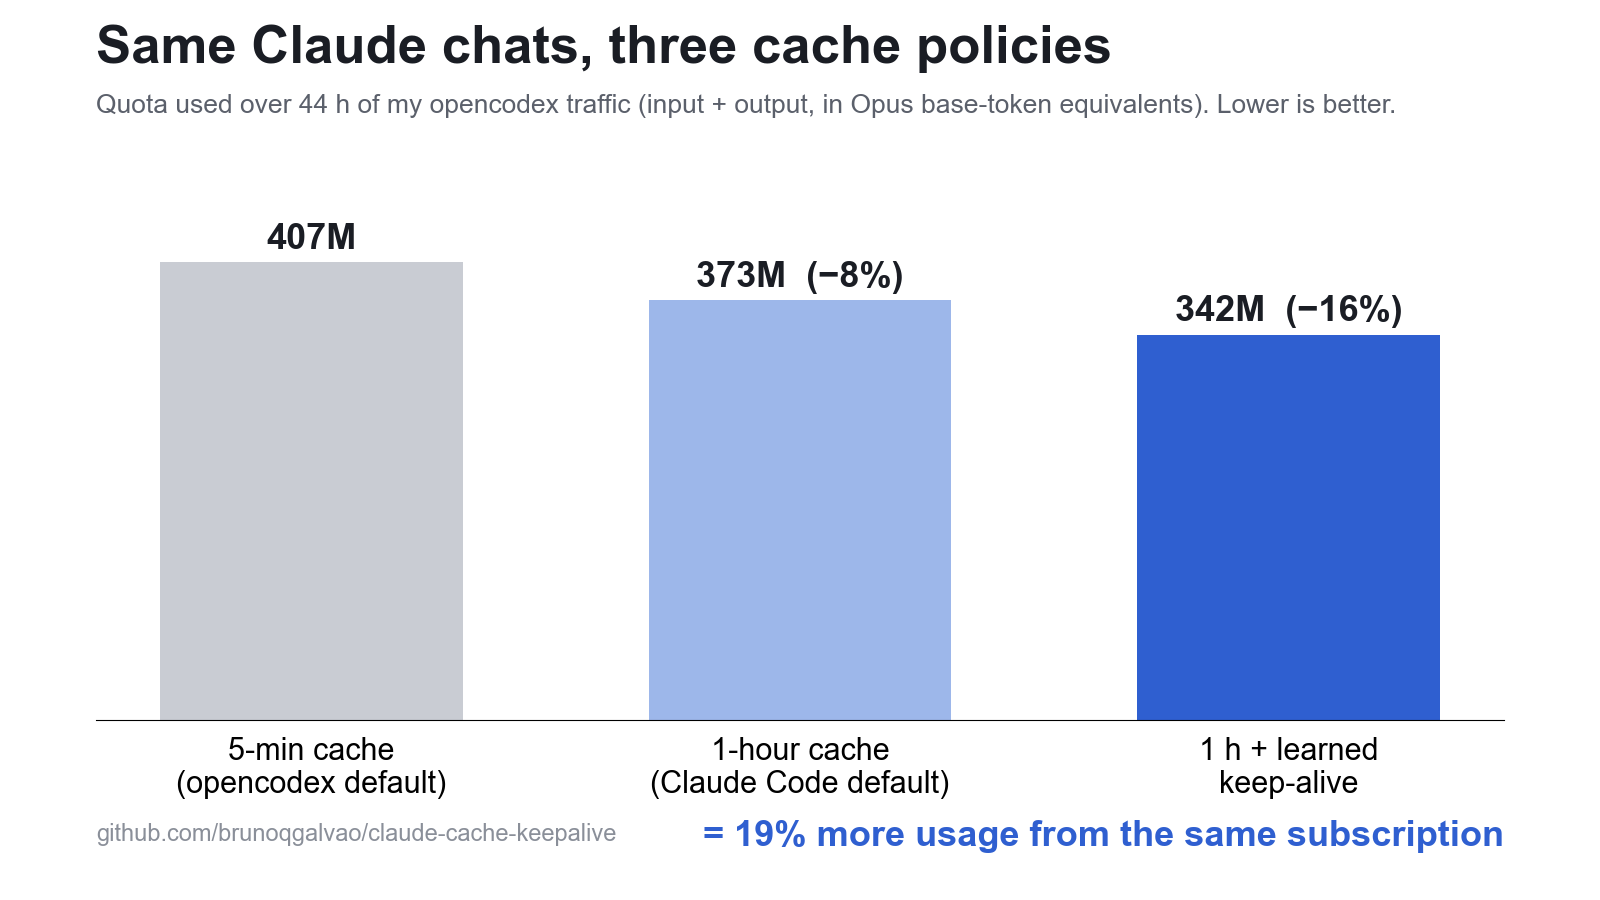
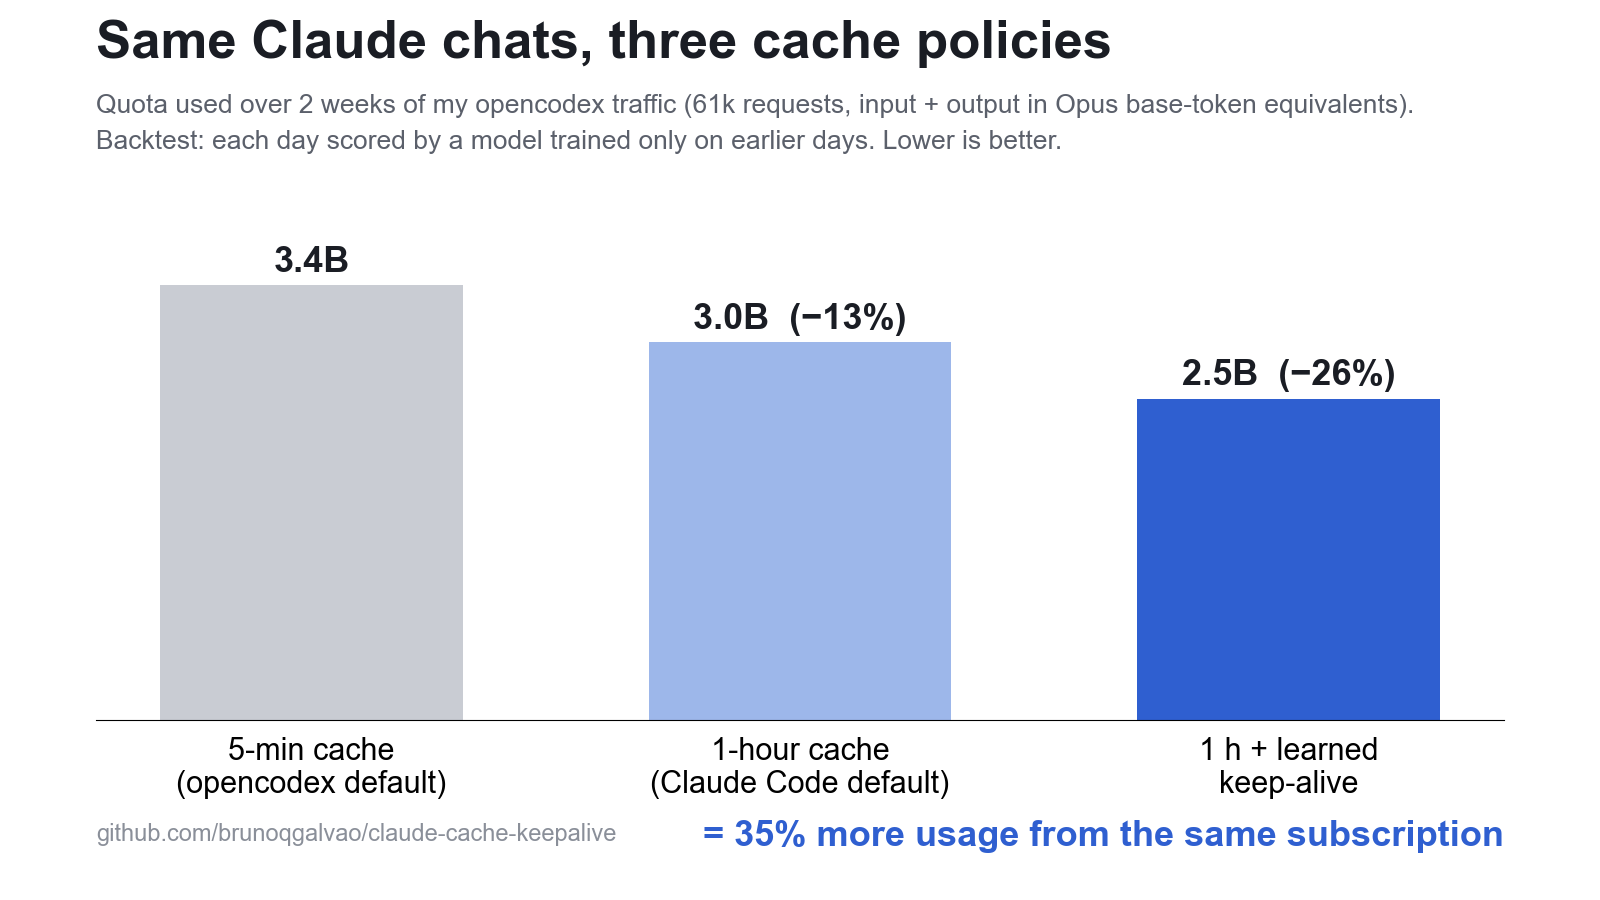
Walk-forward backtest with calibrated replay; README leads with 2-week backtest

diff --git a/analysis/backtest_walkforward.py b/analysis/backtest_walkforward.py
@@ -1,0 +1,130 @@
+#!/usr/bin/env python3
+"""Walk-forward backtest: the three cache policies on the same requests, out of sample.
+
+For each test day, the return-probability model is fitted only on the days before it (like the
+daily retrain), then scored on the pauses that start that day. The 5-minute and 1-hour rules are
+replayed over the same requests. Quota = input-side cost in base-token equivalents (5-min write
+1.25x, 1-hour write 2x, read 0.05x on Opus 5.5) plus output at 5x.
+
+  python3 analysis/backtest_walkforward.py --days 14 --test-days 7
+"""
+import argparse, pathlib, sys
+sys.path.insert(0, str(pathlib.Path(__file__).resolve().parent.parent / 'tools'))
+import tune as T
+
+W5 = 1.25
+
+def cached_read(r, prev, ttl, floor):
+    """Tokens a request reads from cache under a given lifetime, modelled the same way for both
+    lifetimes: within the lifetime it reads the previous request's prompt (the part it shares);
+    after it, only the shared system prompt and tools. Uses the log's real cacheable size, not its
+    real reads, because those depend on the lifetime that was in force when it was recorded."""
+    cacheable = r['cr'] + r['cc']
+    if prev is None:
+        return min(cacheable, floor)
+    if r['t'] - prev['t'] <= ttl:
+        return min(cacheable, prev['P'])
+    return min(cacheable, floor)
+
+def replay(streams, t_from, t_to, floor):
+    tot = dict(m5=0.0, h1=0.0, out=0.0, requests=0)
+    for v in streams.values():
+        prev = None
+        for r in v:
+            if t_from <= r['t'] < t_to:
+                m = T.rmult(r['model']); u = max(0, r['P'] - r['cr'] - r['cc']); cacheable = r['cr'] + r['cc']
+                r1 = cached_read(r, prev, T.TTL + 30, floor)
+                r5 = cached_read(r, prev, 300, floor)
+                tot['h1'] += u + T.W60 * (cacheable - r1) + m * r1
+                tot['m5'] += u + W5 * (cacheable - r5) + m * r5
+                tot['out'] += 5 * r['out']; tot['requests'] += 1
+            prev = r
+    return tot
+
+def calibrate(streams, floor, switched_at):
+    """How well the model reproduces the reads actually logged: 5-min model on 5-min-era traffic,
+    1-hour model on 1-hour-era traffic."""
+    res = {'5-min era': [0.0, 0.0], '1-hour era': [0.0, 0.0]}
+    for v in streams.values():
+        prev = None
+        for r in v:
+            era = '1-hour era' if r['t'] >= switched_at else '5-min era'
+            ttl = T.TTL + 30 if era == '1-hour era' else 300
+            res[era][0] += r['cr']; res[era][1] += cached_read(r, prev, ttl, floor)
+            prev = r
+    return {k: (round(a / 1e6, 1), round(b / 1e6, 1)) for k, (a, b) in res.items()}
+
+def keepalive_net(streams, hz, floor, t_from, t_to, end):
+    window = {k: v for k, v in streams.items()}
+    saved = spent = 0.0; pings = rescues = 0
+    for v in window.values():
+        for i, x in enumerate(v):
+            if not (t_from <= x['t'] < t_to):
+                continue
+            b = T.bucket(x['P'])
+            if b < 0:
+                continue
+            need = T.needed(x, floor)
+            nxt = v[i + 1] if i + 1 < len(v) else None
+            g = nxt['t'] - x['t'] if nxt else None
+            if g is not None and g <= T.TTL + 30:
+                continue
+            n = 0; covered = False
+            for k in range(1, T.MAX_K + 1):
+                t = k * T.STEP
+                if (g is not None and t >= g) or (g is None and t > end - x['t']) or t + T.TTL > 24 * 3600 + 60:
+                    break
+                if hz['p'][b][k - 1] <= need:
+                    break
+                n += 1
+                if g is not None and t + T.TTL >= g:
+                    covered = True
+                    break
+            spent += n * T.ping_cost(x); pings += n
+            if covered:
+                saved += (T.W60 - T.rmult(x['model'])) * max(0.0, 0.98 * min(x['P'], nxt['P']) - floor); rescues += 1
+    return saved - spent, saved, spent, pings, rescues
+
+def main():
+    ap = argparse.ArgumentParser(description=__doc__.split('\n')[0])
+    ap.add_argument('--days', type=float, default=14)
+    ap.add_argument('--test-days', type=int, default=7)
+    ap.add_argument('--switched-at', type=float, default=None, help='unix time you moved to the 1-hour cache, for the calibration check')
+    a = ap.parse_args()
+    streams = T.load(a.days)
+    end = max(r['t'] for v in streams.values() for r in v)
+    floor = T.shared_floor(streams)
+    start = end - a.test_days * 86400
+    agg = dict(m5=0.0, h1=0.0, out=0.0, requests=0, net=0.0, saved=0.0, spent=0.0, pings=0, rescues=0)
+    weeks = {}
+    for d in range(a.test_days):
+        t0 = start + d * 86400; t1 = t0 + 86400
+        train = {k: [r for r in v if r['t'] < t0] for k, v in streams.items()}
+        train = {k: v for k, v in train.items() if v}
+        hz = T.fit_hazard(train, t0)
+        net, saved, spent, pings, rescues = keepalive_net(streams, hz, floor, t0, t1, end)
+        rp = replay(streams, t0, t1, floor)
+        for k in ('m5', 'h1', 'out', 'requests'):
+            agg[k] += rp[k]
+        agg['net'] += net; agg['saved'] += saved; agg['spent'] += spent; agg['pings'] += pings; agg['rescues'] += rescues
+        w = weeks.setdefault(d // 7, dict(m5=0.0, h1=0.0, net=0.0))
+        w['m5'] += rp['m5'] + rp['out']; w['h1'] += rp['h1'] + rp['out']; w['net'] += net
+    m5 = agg['m5'] + agg['out']; h1 = agg['h1'] + agg['out']; learned = h1 - agg['net']
+    pc = lambda a_, b_: 100 * (b_ - a_) / b_
+    sign = lambda x: f"{abs(x):.1f}% {'less' if x >= 0 else 'more'}"
+    print(f"out-of-sample: last {a.test_days} days, {agg['requests']:,} requests (model retrained daily on the days before)")
+    print(f"quota (input + output, base-token equivalents):")
+    print(f"  5-min cache          {m5/1e6:9.1f}M")
+    print(f"  1-hour cache         {h1/1e6:9.1f}M   {sign(pc(h1, m5))} than 5-min")
+    print(f"  1 h + keep-alive     {learned/1e6:9.1f}M   {sign(pc(learned, m5))} than 5-min, {sign(pc(learned, h1))} than 1-hour")
+    print(f"  more usage from the same quota: {100*(m5/learned-1):.1f}% vs 5-min, {100*(h1/learned-1):.1f}% vs 1-hour")
+    for i, w in sorted(weeks.items()):
+        l = w['h1'] - w['net']
+        print(f"  week {i+1}: 1-hour {sign(pc(w['h1'], w['m5']))} than 5-min; keep-alive {sign(pc(l, w['m5']))} than 5-min, {sign(pc(l, w['h1']))} than 1-hour")
+    print(f"keep-alives: {agg['pings']:,} sent, {agg['rescues']:,} rescues, cost {agg['spent']/1e6:.1f}M, avoided {agg['saved']/1e6:.1f}M")
+    if a.switched_at:
+        print('calibration, cache reads logged vs modelled (M tokens):', calibrate(streams, floor, a.switched_at))
+
+if __name__ == '__main__':
+    main()
+

diff --git a/README.md b/README.md
@@ -25,15 +25,17 @@ Notes for the agent doing the install:
 
 ![Same Claude chats, three cache policies](docs/savings.png)
 
-44 hours live on my opencodex traffic (9,049 requests, Opus 5.5, Claude subscription), with each request replayed under the other two cache rules. Quota counted as input plus output in Anthropic's price ratios (5-min write 1.25x, 1-hour write 2x, read 0.05x, output 5x):
+Backtest on two weeks of my opencodex traffic (61k requests, Opus 5.5, Claude subscription). Each day is scored by a model trained only on the days before it, the way the daily retrain works live. Quota is input plus output in Anthropic's price ratios (5-min write 1.25x, 1-hour write 2x, read 0.05x, output 5x). Reproduce with `python3 analysis/backtest_walkforward.py --days 21 --test-days 14`.
 
-| | quota used | vs 5-minute default |
-|---|---|---|
-| 5-minute cache (opencodex default) | 407M | |
-| 1-hour cache only (Claude Code's default) | 373M | -8% |
-| 1-hour cache + learned keep-alive | 342M | **-16%**, or 19% more usage from the same plan |
+| | quota used | vs 5-minute default | vs 1-hour cache |
+|---|---|---|---|
+| 5-minute cache (opencodex default) | 3.41B | | |
+| 1-hour cache only (Claude Code's default) | 2.97B | -13% | |
+| 1-hour cache + learned keep-alive | 2.52B | **-26%** (35% more usage) | **-15%** (18% more usage) |
 
-Keep-alives cost 10.5M tokens and avoided 40.8M of rewrites. Every keep-alive that got a response read the full cached context and wrote nothing. On a subscription this is quota, not dollars; Anthropic doesn't publish exactly how cache tokens count against limits.
+Week by week, the 1-hour cache alone went from 27% less than the 5-minute cache to about even (1% more): it costs 0.75x extra on every turn's new tokens and only pays back when a turn is followed by a 5–60 minute pause, so it wins when more than about 2.4% of turns are (mine: 3.4%). The keep-alive saved a steady 15% on top of the 1-hour cache in both weeks. Keep-alives cost 67M tokens and avoided 512M of rewrites.
+
+The replay models each request's cache read from its real size and the time since the previous one; checked against the reads actually logged, it is within 0.6% for 5-minute-era traffic and 0.1% for 1-hour-era traffic. Live since switching (44 h): 16% less than the 5-minute replay, 8% less than the 1-hour replay. On a subscription this is quota, not dollars; Anthropic doesn't publish exactly how cache tokens count against limits.
 
 ![Will you come back within the next hour?](docs/model.png)
 
